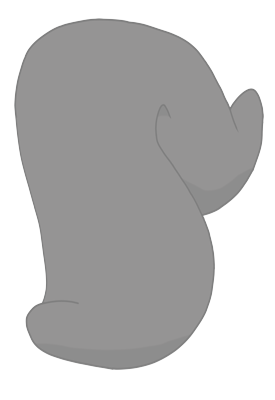
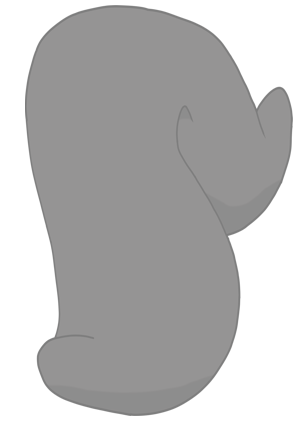
Fixed Skunk Tail position

Changed region(s): [[0.1455, 0.0, 1.0, 0.96], [0.0291, 0.12, 0.2036, 0.87], [0.1164, 0.09, 0.1455, 0.12]]

diff --git a/BondageClub/Assets/Female3DCG/Female3DCG.js b/BondageClub/Assets/Female3DCG/Female3DCG.js
@@ -16079,16 +16079,14 @@ var AssetFemale3DCG = [
 				BuyGroup: "SkunkTail",
 				DefaultColor:["#181818","#706A3D"],
 				Value: 20,
-				Top: 350,
-				Left: 0,
+				Top: 130,
+				Left: 205,
 				Layer: [
 					{
 						Name: "Base"
 					},
 					{
 						Name: "Pattern",
-						Top: 355,
-						Left: 30,
 					},
 				],
 			},
